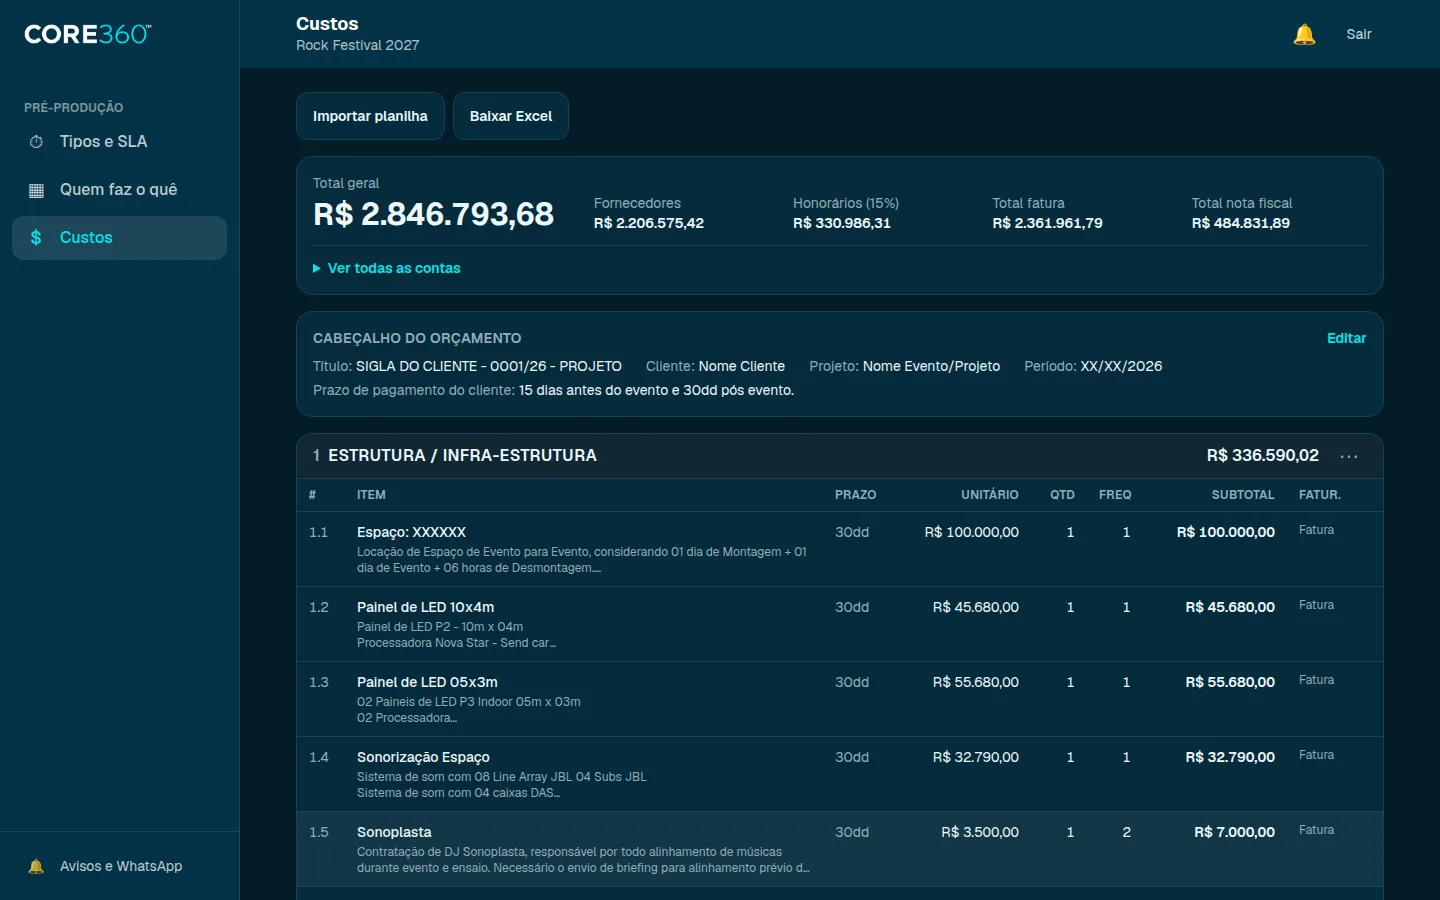
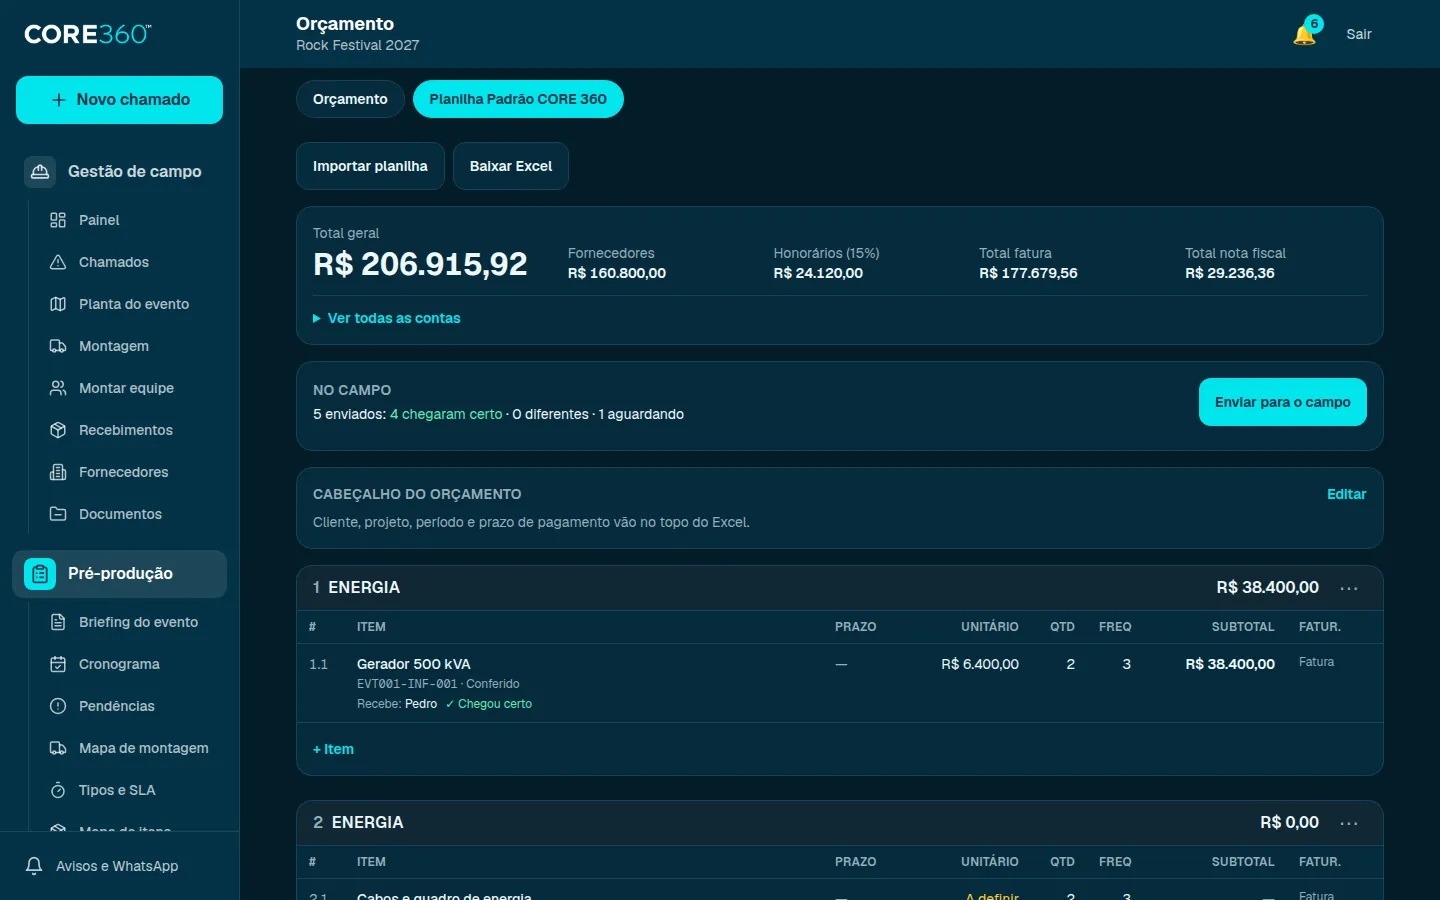
Site: ferramentas das fases 1 a 5
Ficha e briefing, mapa de itens e orçamento, fornecedores, cotações e
contratos, cronograma e pendências, mapa de montagem, chegada até
conferido e planta do evento entram na página pública, com telas novas.

Claude-Session: https://claude.ai/code/session_01NXJjiWT1ebLkJ8Fi61cfJZ

diff --git a/src/components/site.tsx b/src/components/site.tsx
@@ -75,7 +75,7 @@ export const TOOLS: Tool[] = [
       "Os pontos de montagem e de finalização são marcados no lugar onde acontecem, por área.",
       "A cor mostra a situação de cada ponto: não iniciada, em andamento, concluída ou atrasada.",
     ],
-    img: "/site/planta.webp", alt: "Planta do evento no celular com pontos por área", phone: true,
+    img: "/site/planta.webp", alt: "Etapas da planta do evento no celular, cada uma com a sua cor", phone: true,
   },
   {
     id: "equipe", part: "campo", title: "Equipe e convites",
@@ -170,11 +170,11 @@ export const TOOLS: Tool[] = [
     serve: "Dar a cada pessoa a sua função, a sua agenda e um briefing claro do que fazer.",
     quem: "Gerente e Pré-produtor escrevem; cada pessoa lê o seu",
     passos: [
-      "Escolha as funções do evento e coloque as pessoas.",
-      "Preencha posto, horários e o que a pessoa faz.",
+      "Abra a pessoa e veja a função, a agenda e a ficha dela.",
+      "Escreva o briefing: posto, horários e o que a pessoa faz.",
       "Ela lê no celular, em Meu briefing, e confirma Li e entendi.",
     ],
-    img: "/site/funcoes.webp", alt: "Painel de funções e briefing no computador",
+    img: "/site/funcoes.webp", alt: "Função, agenda e ficha de uma pessoa no computador",
   },
   {
     id: "custos", part: "pre", title: "Planilha Padrão CORE 360",
